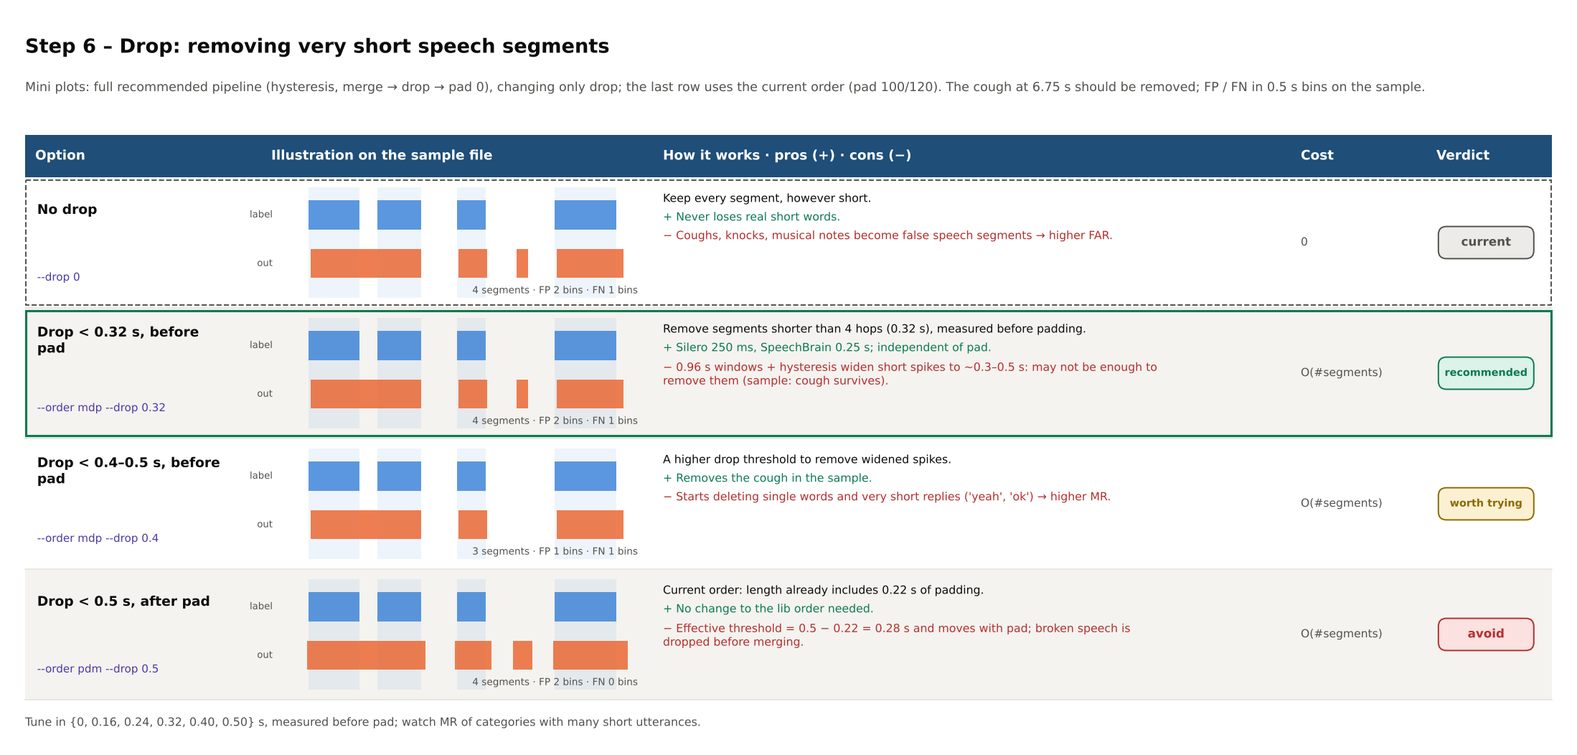
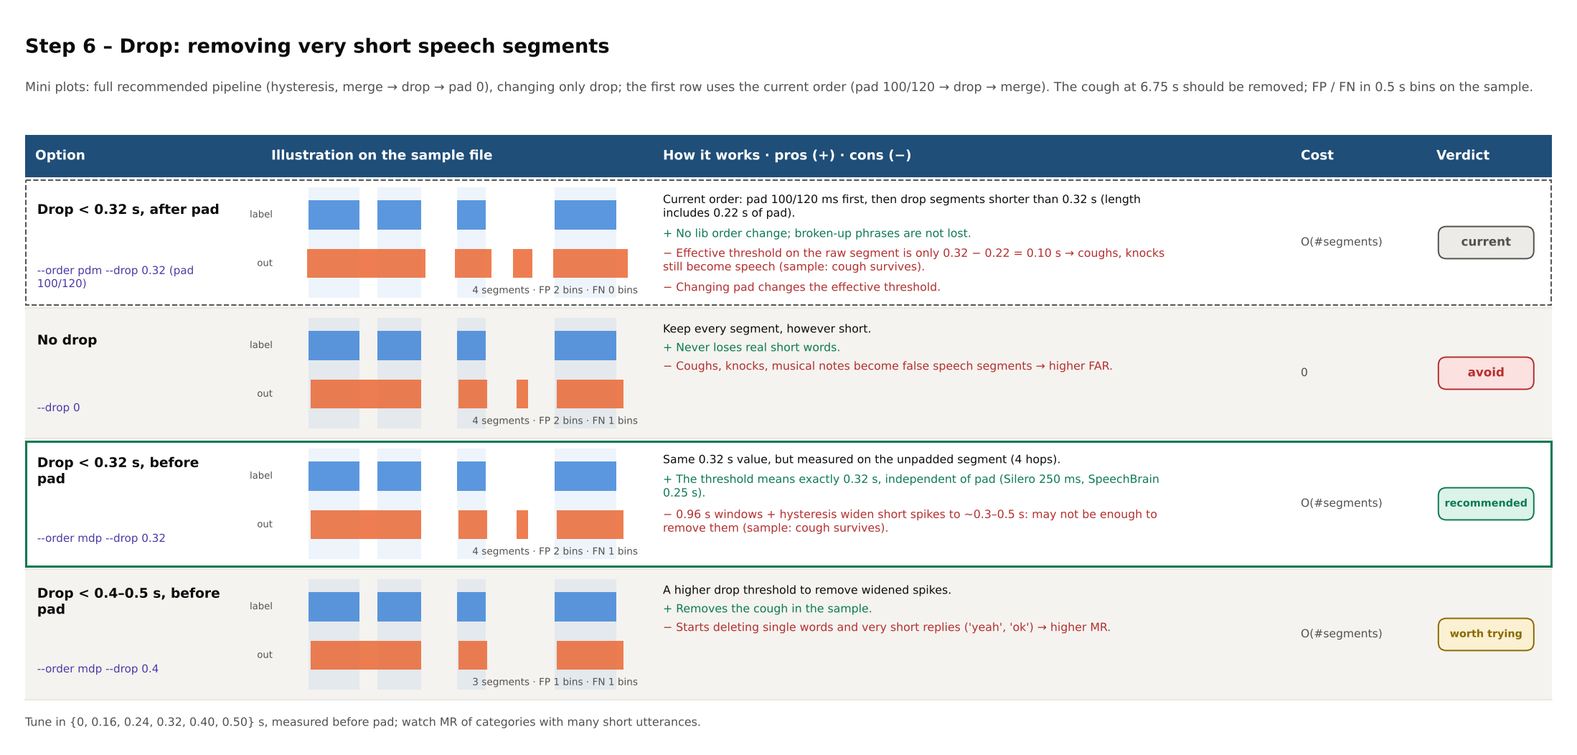
Set current drop to 0.32 s (measured after pad) everywhere
- evaluate_real: default --drop 0.32 and B0 = pad 100/120 -> drop 0.32 ->
  merge 500; C2 now changes only the order (drop 0.32 measured before pad)
- Comparison tables (vi/en): step 6 current row is drop < 0.32 s after pad
  (effective 0.10 s on raw segments, cough survives); step 4 shows pdm with
  drop 0.32 (cough kept) vs drop 0.5 (phrase lost) vs mdp; overview updated
- Guide figure 06 and docs (README, guide, comparisons, vad_post_processing)
  updated; min_dur = 0.32 s filled in

Claude-Session: https://claude.ai/code/session_01GwjDDw3NHqzpdryDLfeMYF

diff --git a/docs/make_compare_tables.py b/docs/make_compare_tables.py
@@ -140,7 +140,7 @@ def table_overview():
             ("3. Ngưỡng", "ngưỡng đơn 0.6026", "ngưỡng kép 0.60 / 0.45", "--hyst 0.15", "không bật tắt liên tục khi điểm dao động", "MR, số đoạn vụn", "≈ 0"),
             ("4. Thứ tự", "pad → drop → merge", "merge → drop → pad", "--order mdp", "ghép mẩu speech vỡ trước khi lọc", "MR (hát, đám đông)", "≈ 0"),
             ("5. Merge", "< 500 ms", "< 500 ms (tune 0.3–0.8)", "--merge-gap", "khớp độ phân giải nhãn 0.5 s", "FA ở khoảng lặng", "≈ 0"),
-            ("6. Drop", "0 (đo sau pad)", "0.32 s đo trước pad (tune 0.32–0.5)", "--drop 0.32", "bỏ gai do ho, gõ, nhạc", "FAR", "≈ 0"),
+            ("6. Drop", "0.32 s đo sau pad", "0.32 s đo trước pad (tune 0.32–0.5)", "--order mdp --drop 0.32", "đo trước pad mới bỏ được gai ngắn", "FAR", "≈ 0"),
             ("7. Pad", "100 / 120 ms", "0 / 0 (tune −0.16…+0.16)", "--pad-pre 0 --pad-post 0", "YAMNet đã nở biên ~0.48 s", "FAR ở biên", "≈ 0"),
             ("8. Hop cửa sổ", "0.08 s", "thử 0.16 / 0.24 s", "R-h16, R-h24 (mục 6)", "số lần chạy model giảm 2–3×", "AUC giảm nhẹ", "CPU ÷2–3")]
     cols = ["Bước", "Hiện tại", "Đề xuất", "Tham số dòng lệnh", "Vì sao", "Ảnh hưởng chính", "Chi phí thêm"]
@@ -296,10 +296,14 @@ def table_order():
             ax.text(3.68, 0.95, tr("tiếng ho"), ha="center", va="top", fontsize=6.8, color=RED)
         return f
     rows = [
-        dict(name="pad → drop → merge", param="--order pdm (pad 100/120, drop 0.5 sau pad)", tag="hiện tại", cost="O(số đoạn)",
-             how="Nới đoạn, bỏ đoạn ngắn (độ dài đã gồm pad), rồi gộp khoảng lặng ngắn.", pros=["Như code hiện tại của lib.so."],
-             cons=["Mẩu speech ngắn bị drop trước khi kịp gộp → mất cả câu hát/rap ngắt quãng.",
+        dict(name="pad → drop → merge, drop 0.32 s", param="--order pdm --drop 0.32 (pad 100/120)", tag="hiện tại", cost="O(số đoạn)",
+             how="Nới đoạn, bỏ đoạn ngắn hơn 0.32 s (độ dài đã gồm pad 0.22 s), rồi gộp khoảng lặng ngắn.", pros=["Như code hiện tại của lib.so; câu bị vỡ vẫn được giữ."],
+             cons=["Pad làm mẩu 0.16 s thành 0.38 s → drop chỉ bỏ được đoạn gốc < 0.10 s: tiếng ho vẫn thành speech.",
                    "Ngưỡng drop phụ thuộc pad: đổi pad là phải đổi drop."],
+             mini=mini_o(postprocess_segs(segs, 0.10, 0.12, 0.5, 0.32, 4.6, "pdm"), ORANGE)),
+        dict(name="pad → drop → merge, drop 0.5 s", param="--order pdm --drop 0.5 (pad 100/120)", tag="tránh", cost="O(số đoạn)",
+             how="Tăng drop để bỏ được tiếng ho khi vẫn giữ thứ tự hiện tại.", pros=["Bỏ được tiếng ho mà không cần sửa thứ tự trong lib."],
+             cons=["Mẩu speech ngắn bị drop trước khi kịp gộp → mất cả câu hát/rap ngắt quãng."],
              mini=mini_o(postprocess_segs(segs, 0.10, 0.12, 0.5, 0.5, 4.6, "pdm"), ORANGE)),
         dict(name="merge → drop → pad", param="--order mdp (drop 0.32 trước pad, pad 0)", tag="đề xuất", cost="O(số đoạn)",
              how="Gộp khoảng lặng ngắn trên đoạn chưa pad, bỏ đoạn ngắn (đo trước pad), rồi pad.",
@@ -334,22 +338,23 @@ def table_merge():
 def table_drop():
     def mk(d, order="mdp", pre=0.0, post=0.0): s, pb = pipeline(order=order, pre=pre, post=post, drop=d); return lambda ax: mini_bars(ax, s, ORANGE, pb=pb)
     rows = [
-        dict(name="Không drop", param="--drop 0", tag="hiện tại", cost="0", how="Giữ mọi đoạn, kể cả rất ngắn.",
+        dict(name="Drop < 0.32 s, đo sau pad", param="--order pdm --drop 0.32 (pad 100/120)", tag="hiện tại", cost="O(số đoạn)",
+             how="Thứ tự hiện tại: pad 100/120 ms trước, rồi bỏ đoạn ngắn hơn 0.32 s (độ dài đã gồm pad 0.22 s).",
+             pros=["Không cần sửa thứ tự trong lib; câu bị vỡ không bị mất."],
+             cons=["Ngưỡng thật trên đoạn gốc chỉ 0.32 − 0.22 = 0.10 s → tiếng ho, gõ vẫn thành speech (file mẫu: tiếng ho còn).",
+                   "Đổi pad là ngưỡng thật đổi theo."], mini=mk(0.32, "pdm", 0.10, 0.12)),
+        dict(name="Không drop", param="--drop 0", tag="tránh", cost="0", how="Giữ mọi đoạn, kể cả rất ngắn.",
              pros=["Không mất từ ngắn thật."], cons=["Tiếng ho, gõ, nốt nhạc thành đoạn speech giả → FAR tăng."], mini=mk(0.0)),
         dict(name="Drop < 0.32 s, đo trước pad", param="--order mdp --drop 0.32", tag="đề xuất", cost="O(số đoạn)",
-             how="Bỏ đoạn ngắn hơn 4 hop (0.32 s), đo trước khi pad.",
-             pros=["Silero 250 ms, SpeechBrain 0.25 s; độc lập với pad."],
+             how="Cùng giá trị 0.32 s nhưng đo trên đoạn chưa pad (4 hop).",
+             pros=["Ngưỡng có nghĩa đúng 0.32 s, độc lập với pad (Silero 250 ms, SpeechBrain 0.25 s)."],
              cons=["Cửa sổ 0.96 s + ngưỡng kép làm gai ngắn nở ra ~0.3–0.5 s: có thể chưa đủ để bỏ (file mẫu: tiếng ho còn)."],
              mini=mk(0.32)),
         dict(name="Drop < 0.4–0.5 s, đo trước pad", param="--order mdp --drop 0.4", tag="thử thêm", cost="O(số đoạn)",
              how="Ngưỡng drop cao hơn để bỏ gai đã bị nở rộng.", pros=["Bỏ được tiếng ho trong file mẫu."],
-             cons=["Bắt đầu xoá từ đơn lẻ, câu trả lời rất ngắn ('ừ', 'vâng') → MR tăng."], mini=mk(0.4)),
-        dict(name="Drop < 0.5 s, đo sau pad", param="--order pdm --drop 0.5", tag="tránh", cost="O(số đoạn)",
-             how="Thứ tự hiện tại: độ dài đã cộng pad 0.22 s.", pros=["Không cần sửa thứ tự trong lib."],
-             cons=["Ngưỡng thật = 0.5 − 0.22 = 0.28 s, đổi theo pad; mẩu speech vỡ bị drop trước khi merge."],
-             mini=mk(0.5, "pdm", 0.10, 0.12))]
+             cons=["Bắt đầu xoá từ đơn lẻ, câu trả lời rất ngắn ('ừ', 'vâng') → MR tăng."], mini=mk(0.4))]
     visual_table("19_so_sanh_drop.png", "Bước 6 – Drop: bỏ đoạn speech quá ngắn",
-                 "Hình nhỏ: toàn pipeline đề xuất (ngưỡng kép, merge → drop → pad 0), chỉ đổi drop; hàng cuối dùng thứ tự hiện tại (pad 100/120). Tiếng ho ở 6.75 s là đoạn cần bỏ; FP / FN theo bin 0.5 s trên file mẫu.",
+                 "Hình nhỏ: toàn pipeline đề xuất (ngưỡng kép, merge → drop → pad 0), chỉ đổi drop; hàng đầu dùng thứ tự hiện tại (pad 100/120 → drop → merge). Tiếng ho ở 6.75 s là đoạn cần bỏ; FP / FN theo bin 0.5 s trên file mẫu.",
                  rows, legend="Tune trong {0, 0.16, 0.24, 0.32, 0.40, 0.50} s, đo trước pad; theo dõi MR của category nhiều câu ngắn.")
 
 def table_pad():

diff --git a/docs/make_figures.py b/docs/make_figures.py
@@ -268,28 +268,31 @@ def fig_order():
     segs = [[1.0, 1.16], [1.4, 1.56], [1.8, 1.96], [2.2, 2.36], [3.6, 3.76]]   # câu hát ngắt quãng + 1 tiếng ho
     pre, post = 0.10, 0.12
     def pad(s): return [[max(0, a - pre), min(dur, b + post)] for a, b in s]
-    p1 = pad(segs); p2 = [x for x in p1 if x[1] - x[0] >= 0.5 - 1e-9]; p3 = postprocess_segs(segs, pre, post, 0.5, 0.5, dur, "pdm")
+    def keep(s, d): return [x for x in s if x[1] - x[0] >= d - 1e-9]
+    p1 = pad(segs)
     m1 = postprocess_segs(segs, 0, 0, 0.5, 0, dur, "mdp"); m2 = postprocess_segs(segs, 0, 0, 0.5, 0.32, dur, "mdp")
-    m3 = postprocess_segs(segs, 0, 0, 0.5, 0.32, dur, "mdp")
-    fig, ax = plt.subplots(1, 2, figsize=(13, 4.3), sharey=True)
-    for a, title, rows, col in (
-            (ax[0], "pdm (hiện tại): pad → drop → merge", [("Đầu vào sau ngưỡng", segs), ("pad 100/120 ms", p1),
-                                                            ("drop < 0.5 s (đo sau pad)", p2), ("merge < 0.5 s", p3)], ORANGE),
-            (ax[1], "mdp (đề xuất): merge → drop → pad", [("Đầu vào sau ngưỡng", segs), ("merge < 0.5 s", m1),
-                                                           ("drop < 0.32 s (đo trước pad)", m2), ("pad 0 / 0", m3)], GREEN)):
+    panels = [("pdm, drop 0.32 (hiện tại)", [("Đầu vào sau ngưỡng", segs), ("pad 100/120 ms", p1), ("drop < 0.32 s (đo sau pad)", keep(p1, 0.32)),
+                                           ("merge < 0.5 s", postprocess_segs(segs, pre, post, 0.5, 0.32, dur, "pdm"))], ORANGE,
+               "pad làm mỗi mẩu 0.16 s thành 0.38 s → tiếng ho không bị drop", RED),
+              ("pdm, drop 0.5 (để bỏ tiếng ho)", [("Đầu vào sau ngưỡng", segs), ("pad 100/120 ms", p1), ("drop < 0.5 s (đo sau pad)", keep(p1, 0.5)),
+                                                ("merge < 0.5 s", postprocess_segs(segs, pre, post, 0.5, 0.5, dur, "pdm"))], ORANGE,
+               "mỗi mẩu bị drop trước khi kịp merge → mất cả câu", RED),
+              ("mdp (đề xuất): merge → drop → pad", [("Đầu vào sau ngưỡng", segs), ("merge < 0.5 s", m1), ("drop < 0.32 s (đo trước pad)", m2),
+                                                   ("pad 0 / 0", m2)], GREEN, "câu giữ nguyên, tiếng ho bị drop", GREEN)]
+    fig, ax = plt.subplots(1, 3, figsize=(16.5, 4.4), sharey=True)
+    for a, (title, rows, col, msg, mcol) in zip(ax, panels):
         for i, (lab, sg) in enumerate(rows):
             y = 4 - i; a.axhline(y, color=GRID, lw=0.6, zorder=0)
             seg_row(a, y, sg, MUTED if i == 0 else col, h=0.5)
-            a.text(0.05, y + 0.36, lab, fontsize=8.8, color=INK)
-        a.set_title(title, loc="left", fontsize=11, fontweight="bold", color=INK)
-        a.set_xlim(0, dur); a.set_ylim(0.4, 4.75); a.set_yticks([]); a.spines["left"].set_visible(False)
+            a.text(0.05, y + 0.36, lab, fontsize=8.6, color=INK)
+        a.set_title(title, loc="left", fontsize=10.8, fontweight="bold", color=INK)
+        a.set_xlim(0, dur); a.set_ylim(0.3, 4.75); a.set_yticks([]); a.spines["left"].set_visible(False)
         a.set_xlabel("thời gian (s)")
         a.axvspan(0.95, 2.4, color=BLUE, alpha=0.06, lw=0); a.text(1.67, 4.6, "câu hát ngắt quãng", ha="center", fontsize=8, color=BLUE)
         a.axvspan(3.55, 3.8, color=RED, alpha=0.06, lw=0); a.text(3.67, 4.6, "tiếng ho", ha="center", fontsize=8, color=RED)
-    ax[0].text(1.67, 0.55, "mỗi mẩu bị drop trước khi kịp merge → mất cả câu", ha="center", fontsize=8.5, color=RED)
-    ax[1].text(1.67, 0.55, "merge trước → câu giữ nguyên; tiếng ho vẫn bị drop", ha="center", fontsize=8.5, color=GREEN)
-    fig.suptitle("Thứ tự các bước quyết định số phận của speech bị vỡ thành nhiều mẩu ngắn (--order)", fontsize=12.5,
-                 fontweight="bold", x=0.02, ha="left", y=1.02)
+        a.text(dur / 2, 0.45, msg, ha="center", fontsize=8.4, color=mcol)
+    fig.suptitle("Thứ tự pad / drop / merge (--order): với pdm, drop đo sau pad nên không thể vừa bỏ tiếng ho vừa giữ câu bị vỡ",
+                 fontsize=12.2, fontweight="bold", x=0.02, ha="left", y=1.02)
     save(fig, "06_thu_tu_pdm_mdp.png")
 
 

diff --git a/docs/compare_tables_en.py b/docs/compare_tables_en.py
@@ -191,4 +191,21 @@ EN = {
     "Tính spectrogram một lần rồi cắt patch 96×64 chồng nhau, thay vì tính lại cho từng cửa sổ.": "Compute the spectrogram once, then slice overlapping 96×64 patches instead of recomputing per window.",
     "YAMNet gốc làm như vậy; không đổi kết quả, chỉ nhanh hơn.": "The original YAMNet does this; same output, just faster.",
     "Cần sửa code lib.so; không đo được trong vad-eval.": "Requires a lib.so code change; cannot be measured in vad-eval.",
+    # ---- cập nhật: drop hiện tại = 0.32 s đo sau pad ----
+    "0.32 s đo sau pad": "0.32 s after pad", "Drop < 0.32 s, đo sau pad": "Drop < 0.32 s, after pad", "đo trước pad mới bỏ được gai ngắn": "measured before pad, it actually removes short spikes",
+    "pad → drop → merge, drop 0.32 s": "pad → drop → merge, drop 0.32 s", "--order pdm --drop 0.32 (pad 100/120)": "--order pdm --drop 0.32 (pad 100/120)",
+    "Nới đoạn, bỏ đoạn ngắn hơn 0.32 s (độ dài đã gồm pad 0.22 s), rồi gộp khoảng lặng ngắn.": "Pad segments, drop those shorter than 0.32 s (length includes 0.22 s of pad), then merge short pauses.",
+    "Như code hiện tại của lib.so; câu bị vỡ vẫn được giữ.": "Same as the current lib.so code; broken-up phrases survive.",
+    "Pad làm mẩu 0.16 s thành 0.38 s → drop chỉ bỏ được đoạn gốc < 0.10 s: tiếng ho vẫn thành speech.": "Padding turns a 0.16 s piece into 0.38 s → drop only removes raw segments < 0.10 s: the cough still becomes speech.",
+    "pad → drop → merge, drop 0.5 s": "pad → drop → merge, drop 0.5 s", "--order pdm --drop 0.5 (pad 100/120)": "--order pdm --drop 0.5 (pad 100/120)",
+    "Tăng drop để bỏ được tiếng ho khi vẫn giữ thứ tự hiện tại.": "Raise drop to remove the cough while keeping the current order.",
+    "Bỏ được tiếng ho mà không cần sửa thứ tự trong lib.": "Removes the cough without changing the lib order.",
+    "Thứ tự hiện tại: pad 100/120 ms trước, rồi bỏ đoạn ngắn hơn 0.32 s (độ dài đã gồm pad 0.22 s).": "Current order: pad 100/120 ms first, then drop segments shorter than 0.32 s (length includes 0.22 s of pad).",
+    "Không cần sửa thứ tự trong lib; câu bị vỡ không bị mất.": "No lib order change; broken-up phrases are not lost.",
+    "Ngưỡng thật trên đoạn gốc chỉ 0.32 − 0.22 = 0.10 s → tiếng ho, gõ vẫn thành speech (file mẫu: tiếng ho còn).": "Effective threshold on the raw segment is only 0.32 − 0.22 = 0.10 s → coughs, knocks still become speech (sample: cough survives).",
+    "Đổi pad là ngưỡng thật đổi theo.": "Changing pad changes the effective threshold.",
+    "Cùng giá trị 0.32 s nhưng đo trên đoạn chưa pad (4 hop).": "Same 0.32 s value, but measured on the unpadded segment (4 hops).",
+    "Ngưỡng có nghĩa đúng 0.32 s, độc lập với pad (Silero 250 ms, SpeechBrain 0.25 s).": "The threshold means exactly 0.32 s, independent of pad (Silero 250 ms, SpeechBrain 0.25 s).",
+    "Hình nhỏ: toàn pipeline đề xuất (ngưỡng kép, merge → drop → pad 0), chỉ đổi drop; hàng đầu dùng thứ tự hiện tại (pad 100/120 → drop → merge). Tiếng ho ở 6.75 s là đoạn cần bỏ; FP / FN theo bin 0.5 s trên file mẫu.":
+        "Mini plots: full recommended pipeline (hysteresis, merge → drop → pad 0), changing only drop; the first row uses the current order (pad 100/120 → drop → merge). The cough at 6.75 s should be removed; FP / FN in 0.5 s bins on the sample.",
 }

diff --git a/evaluate_real.py b/evaluate_real.py
@@ -77,7 +77,7 @@ g.add_argument("--order", choices=list(ORDER_DESC), default="pdm",
 g.add_argument("--pad-pre", type=float, default=0.10, help="nới đầu đoạn speech, giây; âm = co (mặc định %(default)s)")
 g.add_argument("--pad-post", type=float, default=0.12, help="nới cuối đoạn speech, giây; âm = co (mặc định %(default)s)")
 g.add_argument("--merge-gap", type=float, default=0.50, help="gộp hai đoạn cách nhau < N giây (mặc định %(default)s)")
-g.add_argument("--drop", type=float, default=0.0,
+g.add_argument("--drop", type=float, default=0.32,
                help="bỏ đoạn ngắn hơn N giây; pdm: đo sau pad, mdp: đo trước pad; chỉ ở A4 (mặc định %(default)s)")
 g = ap.add_argument_group("so sánh phương án hậu xử lý (mục 6)")
 g.add_argument("--no-compare", action="store_true", help="bỏ mục so sánh các phương án hậu xử lý")
@@ -681,7 +681,7 @@ PP_KEYS = ("overlap", "smooth", "smooth_kind", "domain", "hyst", "order", "pre",
 CLI = dict(overlap=A.overlap, smooth=A.smooth, smooth_kind=A.smooth_kind, domain=A.domain, hyst=A.hyst, order=A.order,
            pre=A.pad_pre, post=A.pad_post, gap=A.merge_gap, drop=A.drop, hop_sub=1)
 BASE = dict(overlap=RESCORE_WEIGHT, smooth=RESCORE_SMOOTH, smooth_kind="mean", domain="prob", hyst=0.0, order="pdm",
-            pre=0.10, post=0.12, gap=0.50, drop=0.0, hop_sub=1)   # B0 luôn là cấu hình hiện tại để các lần chạy so sánh được
+            pre=0.10, post=0.12, gap=0.50, drop=0.32, hop_sub=1)   # B0 luôn là cấu hình hiện tại để các lần chạy so sánh được
 _rec = PRESETS["de-xuat"]
 REC = dict(overlap=_rec["overlap"], smooth=_rec["smooth"], smooth_kind=_rec["smooth_kind"], domain=_rec["domain"], hyst=_rec["hyst"],
            order=_rec["order"], pre=_rec["pad_pre"], post=_rec["pad_post"], gap=_rec["merge_gap"], drop=_rec["drop"], hop_sub=1)
@@ -690,9 +690,9 @@ def cfg_desc(c):
             + (f"ngưỡng kép Δ {c['hyst']:g}" if c["hyst"] > 0 else "ngưỡng đơn")
             + f"; {ORDER_DESC[c['order']]}: pad {ms(c['pre'])}/{ms(c['post'])} ms, merge < {ms(c['gap'])} ms, drop {ms(c['drop'])} ms"
             + (f"; hop {HOP * c['hop_sub']:g} s (giữ 1/{c['hop_sub']} cửa sổ)" if c["hop_sub"] > 1 else ""))
-COMPARE = [("B0", "Hiện tại (pad 100/120, merge 500, mean 5 hop)", BASE),
+COMPARE = [("B0", "Hiện tại (pad 100/120, drop 0.32, merge 500, mean 5 hop)", BASE),
            ("C1", "B0 + ngưỡng kép Δ 0.15", {**BASE, "hyst": 0.15}),
-           ("C2", "B0 + thứ tự merge → drop 0.32 s → pad", {**BASE, "order": "mdp", "drop": 0.32}),
+           ("C2", "B0 + thứ tự merge → drop → pad (drop 0.32 đo trước pad)", {**BASE, "order": "mdp"}),
            ("C3", "B0 + pad 0 / 0", {**BASE, "pre": 0.0, "post": 0.0}),
            ("C4", "B0 + làm mượt median 3 hop", {**BASE, "smooth": 3, "smooth_kind": "median"}),
            ("C5", "B0 + không làm mượt", {**BASE, "smooth": 1}),

diff --git a/make_excel_real.py b/make_excel_real.py
@@ -577,7 +577,7 @@ if HAS_PP:
         r = r + 2 + len(top) + 1
     sec(dpp, r, "d. Cách đọc")
     for i, t in enumerate([
-            "B0: cấu hình hiện tại (trọng số tam giác + trung bình 5 hop, ngưỡng đơn, pad 100/120 ms → drop → merge < 500 ms). C1–C7: B0 + đúng một thay đổi.",
+            "B0: cấu hình hiện tại (trọng số tam giác + trung bình 5 hop, ngưỡng đơn, pad 100/120 ms → drop < 320 ms đo sau pad → merge < 500 ms). C1–C7: B0 + đúng một thay đổi.",
             "R: cấu hình đề xuất (median 3 hop, ngưỡng kép Δ 0.15, merge < 500 ms → drop < 320 ms đo trước pad → pad 0/0). R-h16 / R-h24: như R nhưng chỉ "
             "giữ 1/2 hoặc 1/3 cửa sổ (mô phỏng hop 0.16 / 0.24 s, giảm số lần chạy model).",
             "T (nếu có --tune): cấu hình tốt nhất trên dev. Lần thử càng nhiều càng dễ khớp riêng dev – tin T khi nó cũng tốt trên test và ở nhiều category.",

diff --git a/SO_SANH_TOI_UU.md b/SO_SANH_TOI_UU.md
@@ -39,7 +39,7 @@ Vẽ lại tất cả hình: `python docs/make_compare_tables.py` (bản tiếng
 | 3. Ngưỡng | đơn 0.6026 | kép 0.60 / 0.45, chọn trên dev | `--hyst 0.15`, `--criterion` | MR, số đoạn vụn |
 | 4. Thứ tự | pad → drop → merge | merge → drop → pad | `--order mdp` | MR (hát, đám đông) |
 | 5. Merge | < 0.5 s | < 0.5 s (tune 0.3–0.8) | `--merge-gap` | FA ở khoảng lặng |
-| 6. Drop | 0 | 0.32 s đo trước pad (tune 0.32–0.5) | `--drop` | FAR |
+| 6. Drop | 0.32 s đo sau pad | 0.32 s đo trước pad (tune 0.32–0.5) | `--order mdp --drop` | FAR |
 | 7. Pad | 100 / 120 ms | 0 / 0 (tune −0.16…+0.16) | `--pad-pre`, `--pad-post` | FA ở biên |
 | 8. Hop | 0.08 s | thử 0.16 / 0.24 s | R-h16, R-h24 | CPU ÷2–3, AUC giảm nhẹ |
 
@@ -94,7 +94,8 @@ So bước này bằng **F1 / DCF / MR / FAR**; AUC không đổi theo ngưỡng
 
 | Phương án | Tham số | Ưu | Nhược | Đánh giá |
 |---|---|---|---|---|
-| pad → drop → merge | `--order pdm` | như lib.so hiện tại | mẩu speech vỡ bị drop trước khi gộp; drop phụ thuộc pad | hiện tại |
+| pad → drop → merge, drop 0.32 s | `--order pdm --drop 0.32` | như lib.so hiện tại; câu bị vỡ được giữ | pad làm gai 0.16 s thành 0.38 s → tiếng ho không bị drop; drop phụ thuộc pad | hiện tại |
+| pad → drop → merge, drop 0.5 s | `--order pdm --drop 0.5` | bỏ được tiếng ho, không sửa lib | mẩu speech vỡ bị drop trước khi gộp → mất cả câu | tránh |
 | merge → drop → pad | `--order mdp` | ghép mẩu vỡ trước; drop độc lập với pad | phải sửa thứ tự trong lib.so | đề xuất |
 
 ## Bước 5 – Merge
@@ -114,10 +115,10 @@ So bước này bằng **F1 / DCF / MR / FAR**; AUC không đổi theo ngưỡng
 
 | Phương án | Tham số | Ưu | Nhược | Đánh giá |
 |---|---|---|---|---|
-| Không drop | `--drop 0` | không mất từ ngắn | ho, gõ, nốt nhạc thành speech giả | hiện tại |
-| < 0.32 s, trước pad | `--order mdp --drop 0.32` | như Silero / SpeechBrain; độc lập với pad | gai đã nở rộng có thể còn | đề xuất |
+| < 0.32 s, sau pad | `--order pdm --drop 0.32` | không cần sửa thứ tự; câu bị vỡ không mất | ngưỡng thật trên đoạn gốc chỉ 0.10 s → ho, gõ vẫn thành speech | hiện tại |
+| Không drop | `--drop 0` | không mất từ ngắn | ho, gõ, nốt nhạc thành speech giả | tránh |
+| < 0.32 s, trước pad | `--order mdp --drop 0.32` | cùng giá trị nhưng đúng nghĩa 0.32 s; như Silero / SpeechBrain; độc lập với pad | gai đã nở rộng có thể còn | đề xuất |
 | < 0.4–0.5 s, trước pad | `--order mdp --drop 0.4` | bỏ được gai nở rộng | xoá câu rất ngắn ("ừ", "vâng") | thử thêm |
-| < 0.5 s, sau pad | `--order pdm --drop 0.5` | không cần sửa thứ tự | ngưỡng thật đổi theo pad; drop trước merge | tránh |
 
 ## Bước 7 – Pad
 

diff --git a/POSTPROCESSING_COMPARISON.md b/POSTPROCESSING_COMPARISON.md
@@ -40,7 +40,7 @@ Regenerate all images: `python docs/make_compare_tables.py --lang en` (Vietnames
 | 3. Threshold | single 0.6026 | double 0.60 / 0.45, tuned on dev | `--hyst 0.15`, `--criterion` | MR, fragment count |
 | 4. Order | pad → drop → merge | merge → drop → pad | `--order mdp` | MR (singing, crowd) |
 | 5. Merge | < 0.5 s | < 0.5 s (tune 0.3–0.8) | `--merge-gap` | FA in pauses |
-| 6. Drop | 0 | 0.32 s before pad (tune 0.32–0.5) | `--drop` | FAR |
+| 6. Drop | 0.32 s after pad | 0.32 s before pad (tune 0.32–0.5) | `--order mdp --drop` | FAR |
 | 7. Pad | 100 / 120 ms | 0 / 0 (tune −0.16…+0.16) | `--pad-pre`, `--pad-post` | FA at edges |
 | 8. Hop | 0.08 s | try 0.16 / 0.24 s | R-h16, R-h24 | CPU ÷2–3, slightly lower AUC |
 
@@ -96,7 +96,8 @@ Compare this step by **F1 / DCF / MR / FAR**; AUC does not depend on the thresho
 
 | Option | Flag | Pros | Cons | Verdict |
 |---|---|---|---|---|
-| pad → drop → merge | `--order pdm` | same as current lib.so | broken speech dropped before merging; drop depends on pad | current |
+| pad → drop → merge, drop 0.32 s | `--order pdm --drop 0.32` | same as current lib.so; broken-up phrases survive | padding turns a 0.16 s spike into 0.38 s → the cough is not dropped; drop depends on pad | current |
+| pad → drop → merge, drop 0.5 s | `--order pdm --drop 0.5` | removes the cough, no lib change | broken speech dropped before merging → whole phrase lost | avoid |
 | merge → drop → pad | `--order mdp` | rejoins broken speech first; drop independent of pad | lib.so order must change | recommended |
 
 ## Step 5 – Merge
@@ -116,10 +117,10 @@ Compare this step by **F1 / DCF / MR / FAR**; AUC does not depend on the thresho
 
 | Option | Flag | Pros | Cons | Verdict |
 |---|---|---|---|---|
-| No drop | `--drop 0` | never loses short words | coughs, knocks, notes become false speech | current |
-| < 0.32 s, before pad | `--order mdp --drop 0.32` | as in Silero / SpeechBrain; independent of pad | widened spikes may survive | recommended |
+| < 0.32 s, after pad | `--order pdm --drop 0.32` | no order change; broken-up phrases survive | effective threshold on the raw segment is only 0.10 s → coughs, knocks still become speech | current |
+| No drop | `--drop 0` | never loses short words | coughs, knocks, notes become false speech | avoid |
+| < 0.32 s, before pad | `--order mdp --drop 0.32` | same value but truly 0.32 s; as in Silero / SpeechBrain; independent of pad | widened spikes may survive | recommended |
 | < 0.4–0.5 s, before pad | `--order mdp --drop 0.4` | removes widened spikes | deletes very short replies ("yeah", "ok") | worth trying |
-| < 0.5 s, after pad | `--order pdm --drop 0.5` | no order change needed | effective threshold moves with pad; drop before merge | avoid |
 
 ## Step 7 – Pad
 

diff --git a/vad_post_processing.md b/vad_post_processing.md
@@ -93,7 +93,7 @@ Any segment whose duration (`end − start`) is **shorter than `min_dur`** is re
 
 - Duration is measured **after padding**: a single 0.08 s frame becomes 0.30 s after padding. To remove isolated frames, `min_dur` must be greater than 0.30 s.
 - Running Drop before Merge carries a risk: an utterance broken into several short pieces may have each piece deleted before it can be merged. If fragmented speech goes missing, consider running Merge first and Drop afterwards.
-- `min_dur` value: **TODO** — fill in from the `lib.so` configuration.
+- Current `lib.so` value: `min_dur = 0.32 s`, measured after padding — i.e. only raw segments shorter than 0.32 − 0.22 = 0.10 s are removed.
 
 ## 5. Merge
 
@@ -115,9 +115,9 @@ Two adjacent segments are joined into one when **the gap between them is less th
 
 ## Example and parameters
 
-The example below walks through a 10 s file: 4 raw segments after thresholding end up as 2 final segments. `min_dur = 0.40 s` is an illustrative value only.
+The example below walks through a 10 s file with the current parameters: 4 raw segments after thresholding end up as 2 final segments.
 
-| Segment | After threshold (s) | After padding (s) | Drop (min_dur 0.40 s) | Merge (gap < 0.5 s) |
+| Segment | After threshold (s) | After padding (s) | Drop (min_dur 0.32 s) | Merge (gap < 0.5 s) |
 | --- | --- | --- | --- | --- |
 | A | 1.20 – 2.40 | 1.10 – 2.52 | keep (1.42 s) | merged with B → 1.10 – 3.72 |
 | B | 2.80 – 3.60 | 2.70 – 3.72 | keep (1.02 s) | gap A–B = 0.18 s → merged |
@@ -134,7 +134,7 @@ The example below walks through a 10 s file: 4 raw segments after thresholding e
 | threshold θ | 0.6026 | Filter threshold | Score ≥ θ is speech |
 | pad_before | 0.10 s | Padding | Extension before each segment |
 | pad_after | 0.12 s | Padding | Extension after each segment |
-| min_dur | TODO | Drop | Shorter segments are removed |
+| min_dur | 0.32 s (after pad) | Drop | Shorter segments are removed |
 | merge_gap | 0.50 s | Merge | Smaller gaps are merged |
 
 **When comparing with the 0.5 s ground truth.** Output segments are rebinned again onto a 0.5 s grid: a bin mostly covered by a speech segment (by overlap or by the bin's midpoint) is labelled speech. Bins sitting right on a speech/non-speech boundary are counted separately as boundary errors, not true errors, because a ±0.25 s offset at a boundary is a limit of the ground-truth resolution, not a model error.

diff --git a/README.md b/README.md
@@ -42,7 +42,7 @@ Tinh chỉnh (mặc định = cấu hình hiện tại; giá trị đã dùng đ
 | `--order pdm\|mdp` | pdm | Thứ tự ở A4. pdm = pad → drop → merge (hiện tại). mdp = merge → drop → pad: merge trên đoạn chưa pad, drop đo độ dài trước pad |
 | `--pad-pre`, `--pad-post` | 0.10, 0.12 | Nới đầu / cuối đoạn speech (giây); âm = co đoạn |
 | `--merge-gap` | 0.50 | Gộp hai đoạn cách nhau ít hơn N giây |
-| `--drop` | 0 | Bỏ đoạn ngắn hơn N giây, chỉ ở A4 (pdm: đo sau pad; mdp: đo trước pad) |
+| `--drop` | 0.32 | Bỏ đoạn ngắn hơn N giây, chỉ ở A4 (pdm: đo sau pad; mdp: đo trước pad). Cấu hình hiện tại của lib.so: 0.32 s đo sau pad |
 | `--no-compare` | | Bỏ mục 6 (so sánh phương án hậu xử lý) |
 | `--tune N`, `--tune-seed` | 0, 0 | Tìm cấu hình hậu xử lý tốt nhất trên dev với N lần thử (Optuna TPE nếu đã cài `optuna`, không thì tìm ngẫu nhiên) |
 | `--criterion DCF-min\|F1-max` | DCF-min | Tiêu chí chọn ngưỡng trên dev (Excel lấy làm mặc định ô B8) |
@@ -84,9 +84,9 @@ Cách làm:
 
 | Mã | Cấu hình |
 |---|---|
-| B0 | Cấu hình hiện tại: tam giác + trung bình 5 hop, ngưỡng đơn, pad 100/120 → drop → merge < 500 ms. Luôn cố định (không theo `--preset`), để các lần chạy so được với nhau |
+| B0 | Cấu hình hiện tại: tam giác + trung bình 5 hop, ngưỡng đơn, pad 100/120 → drop < 0.32 s (đo sau pad) → merge < 500 ms. Luôn cố định (không theo `--preset`), để các lần chạy so được với nhau |
 | CLI | Tham số dòng lệnh, chỉ hiện khi khác B0 và R |
-| C1–C7 | B0 + đúng một thay đổi: ngưỡng kép Δ 0.15 / merge → drop 0.32 s → pad / pad 0/0 / median 3 hop / không làm mượt / Hann / miền logit |
+| C1–C7 | B0 + đúng một thay đổi: ngưỡng kép Δ 0.15 / thứ tự merge → drop → pad (drop 0.32 s đo trước pad) / pad 0/0 / median 3 hop / không làm mượt / Hann / miền logit |
 | R | Đề xuất (`--preset de-xuat`) |
 | R-h16, R-h24 | Như R nhưng chỉ giữ 1/2, 1/3 cửa sổ: mô phỏng hop 0.16 / 0.24 s, giảm 2–3× số lần chạy model (CPU, pin) |
 | T | Có `--tune N`: cấu hình tốt nhất trên dev. N càng lớn càng dễ khớp riêng dev, nên chỉ tin T khi test và các category cũng tốt |

diff --git a/HUONG_DAN_SU_DUNG.md b/HUONG_DAN_SU_DUNG.md
@@ -251,7 +251,7 @@ Cách đọc hình:
 | `--order pdm\|mdp` | pdm | pdm = pad → drop → merge; mdp = merge → drop → pad |
 | `--pad-pre`, `--pad-post` | 0.10, 0.12 | Nới đầu / cuối đoạn (giây); âm = co |
 | `--merge-gap` | 0.50 | Gộp hai đoạn cách nhau < N giây |
-| `--drop` | 0 | Bỏ đoạn ngắn hơn N giây (pdm: đo sau pad; mdp: đo trước pad) |
+| `--drop` | 0.32 | Bỏ đoạn ngắn hơn N giây (pdm: đo sau pad; mdp: đo trước pad). Hiện tại lib.so dùng 0.32 s đo sau pad |
 
 **Chọn ngưỡng và thống kê**
 
@@ -357,10 +357,10 @@ tốt hơn cấu hình hiện tại, và tốt hơn có thật không.
 
 | Mã | Cấu hình |
 |---|---|
-| B0 | Cấu hình hiện tại: tam giác + trung bình 5 hop, ngưỡng đơn, pad 100/120 ms → drop → merge < 500 ms. Luôn cố định để các lần chạy so được với nhau |
+| B0 | Cấu hình hiện tại: tam giác + trung bình 5 hop, ngưỡng đơn, pad 100/120 ms → drop < 0.32 s (đo sau pad) → merge < 500 ms. Luôn cố định để các lần chạy so được với nhau |
 | CLI | Tham số dòng lệnh, chỉ hiện khi khác B0 và R |
 | C1 | B0 + ngưỡng kép Δ 0.15 |
-| C2 | B0 + thứ tự merge → drop 0.32 s → pad |
+| C2 | B0 + thứ tự merge → drop → pad (drop 0.32 s, nay đo trước pad) |
 | C3 | B0 + pad 0 / 0 |
 | C4 | B0 + làm mượt median 3 hop |
 | C5 | B0 + không làm mượt |
@@ -377,8 +377,9 @@ vụn; ngưỡng kép chỉ tắt khi điểm xuống dưới ngưỡng − Δ.
 
 ![Ngưỡng kép](docs/img/05_nguong_kep.png)
 
-**C2 – thứ tự merge → drop → pad (`--order mdp`).** Speech bị vỡ thành nhiều mẩu ngắn sát nhau sẽ bị drop từng mẩu
-nếu drop chạy trước merge; merge trước thì các mẩu được ghép lại, còn tiếng ho đứng riêng vẫn bị drop.
+**C2 – thứ tự merge → drop → pad (`--order mdp`).** Với thứ tự hiện tại (pdm), drop đo sau pad: pad 0.22 s làm mỗi mẩu
+0.16 s thành 0.38 s nên drop 0.32 s không bỏ được tiếng ho; tăng drop lên 0.5 s thì bỏ được tiếng ho nhưng các mẩu của
+câu bị vỡ cũng bị drop trước khi kịp merge. Merge trước (mdp) thì câu được ghép lại, còn tiếng ho đứng riêng bị drop.
 
 ![Thứ tự pdm và mdp](docs/img/06_thu_tu_pdm_mdp.png)
 
